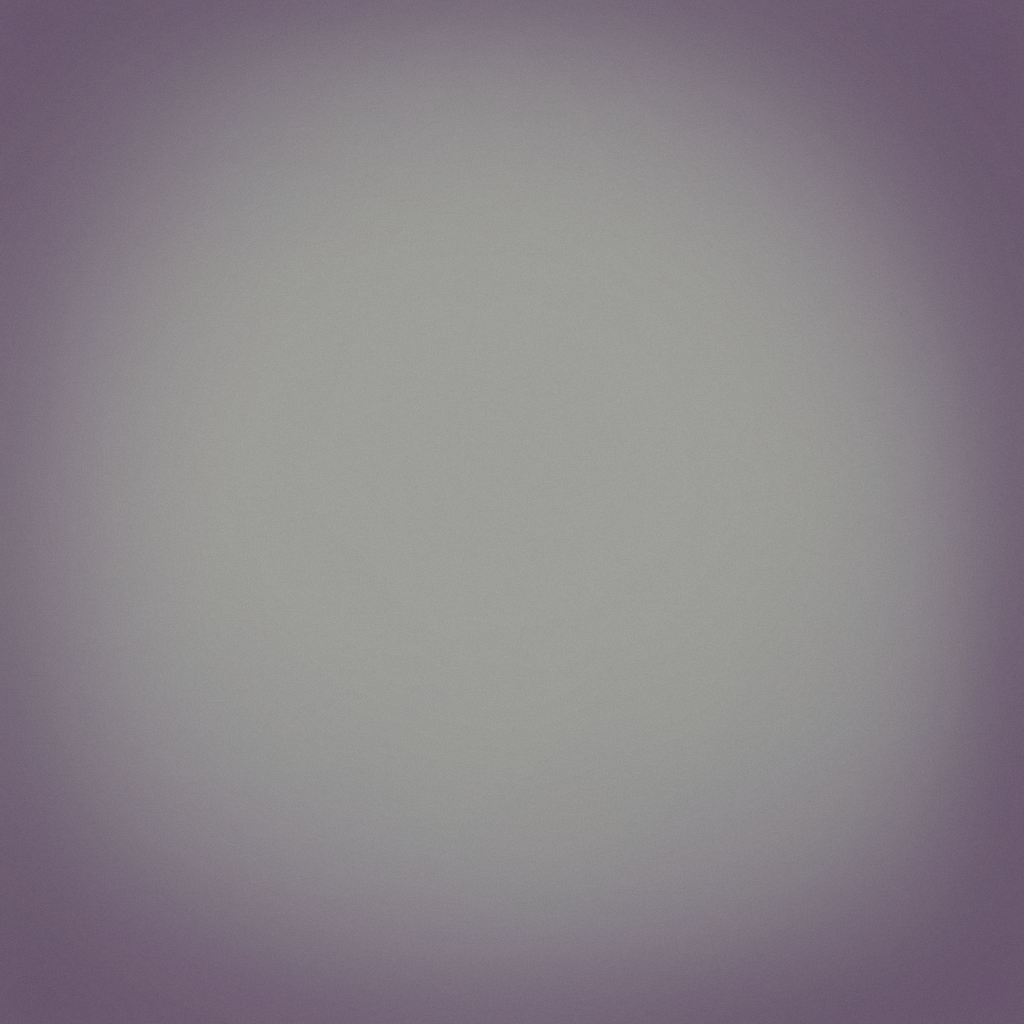
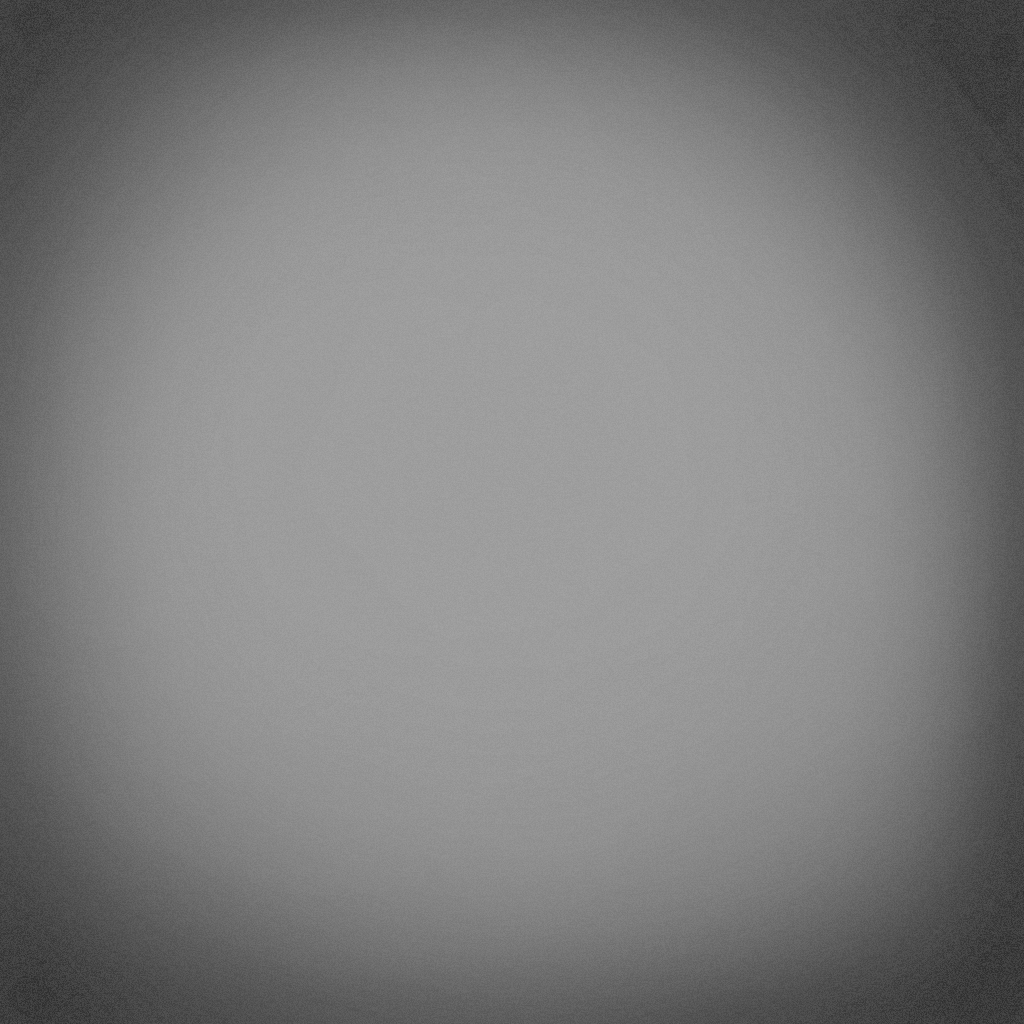
+ Enabled light pillar

Changed region(s): [[0.0, 0.0, 1.0, 1.0], [0.0, 0.0, 0.375, 0.4062]]

diff --git a/pruitt-igoe/pruitt-igoe/demo/DemoController.cpp b/pruitt-igoe/pruitt-igoe/demo/DemoController.cpp
@@ -252,6 +252,7 @@ public:
 		context.secondTerrain->GetGameObject()->SetEnabled(true);
 		context.secondTerrain->GetTransform()->SetLocalRotation(glm::vec3());
 		context.secondTerrain->GetTransform()->SetLocalPosition(glm::vec3());
+		context.pillar->SetEnabled(true);
 		context.secondTerrain->material->SetFeature(GL_STENCIL_TEST, false);
 
 		// Reset rotation
@@ -349,20 +350,22 @@ void DemoController::Awake()
 	waterMaterial->SetBlendOperation(Material::BlendOperation(GL_SRC_ALPHA, GL_ONE_MINUS_SRC_ALPHA));
 	waterRenderer->SetMaterial(waterMaterial);
 
-/*
+
 	GameObject * lightPillar = GameObject::Instantiate("lightPillar");
 	MeshRenderer * pillarRenderer = lightPillar->AddComponent<MeshRenderer>();
 	pillarRenderer->SetMesh(MeshFactory::BuildCube(true, true));
 	pillarRenderer->GetTransform()->SetLocalScale(glm::vec3(10.f, 1000.f, 10.f));
-	pillarRenderer->GetTransform()->SetLocalPosition(glm::vec3(512, 64, 512));
+	pillarRenderer->GetTransform()->SetLocalPosition(glm::vec3(645.617249, 64.196426, 673.341614));
 
 	Material * pillarMaterial = new Material("raymarched/light_pillar");
 	pillarMaterial->SetTexture("RandomTexture", randomTexture);
 	pillarMaterial->SetFeature(GL_BLEND, true);
 	pillarMaterial->SetBlendOperation(Material::BlendOperation(GL_ONE, GL_ONE));
-	pillarRenderer->SetMaterial(pillarMaterial);*/
+	pillarRenderer->SetMaterial(pillarMaterial);
+
+	lightPillar->SetEnabled(false);
 	
-	//raymarchedMaterials.push_back(pillarMaterial);
+	raymarchedMaterials.push_back(pillarMaterial);
 	raymarchedMaterials.push_back(terrain->material);
 	raymarchedMaterials.push_back(waterMaterial);
 	raymarchedMaterials.push_back(secondaryTerrain->material);
@@ -408,6 +411,8 @@ void DemoController::Awake()
 	context.secondTerrain = secondaryTerrain;
 	context.vignetteMaterial = vignetteMaterial;
 	context.camController = cameraController;
+	context.pillar = lightPillar;
+	context.pillarMaterial = pillarMaterial;
 
 	this->cameraController->AddCameraShot(new WaitCamera(2.5f, this->cameraController->camera, context));
 	this->cameraController->AddCameraShot(new IntroCamera(12.5f, this->cameraController->camera, context));
